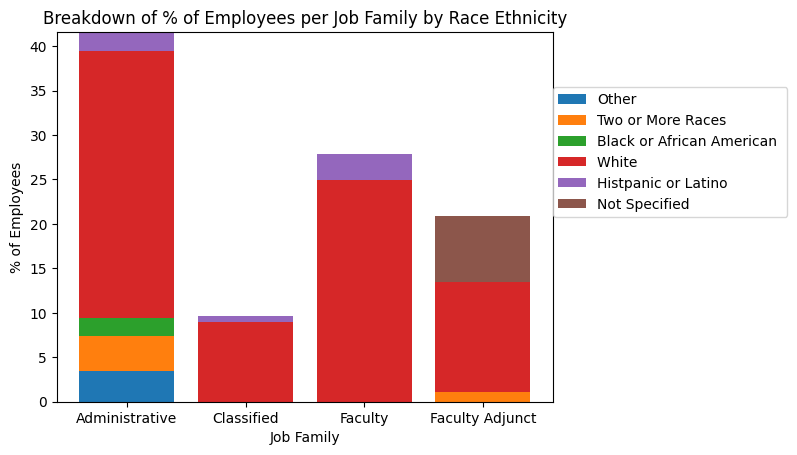
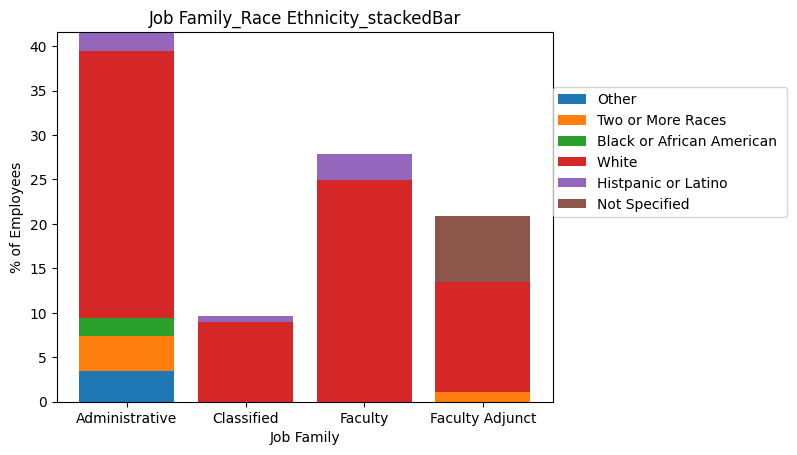
working regenerate

Changed region(s): [[0.0301, 0.0, 0.7227, 0.0615]]

diff --git a/main.py b/main.py
@@ -56,6 +56,7 @@ class Graphs(db.Model):
     title = db.Column(db.String(50), nullable=False)
     description = db.Column(db.String(250), nullable=True)
     type = db.Column(db.String(20))
+    useQuantity = db.Column(db.Boolean, default=False)
     currently_displayed = db.Column(db.Boolean, default=False, nullable=False)
     group_id = db.Column(db.Integer, db.ForeignKey('graphgroup.id'), nullable=True)
 
@@ -116,13 +117,12 @@ def makeImageName(category, type, isUnique):
     return category + "_" + type + ("_" + datetime.now().strftime("%m_%d_%Y_%H;%M;%S") + ".png" if isUnique else ".png")
 
 
-def addGraphToDb(path, title, type, description="", group_id=None):
+def addGraphToDb(path, title, type, description="", group_id=None, useQuantity=False):
     if group_id == None:
-        temp = Graphs(path=path, title=title, type=type, description=description)
+        temp = Graphs(path=path, title=title, type=type, description=description, useQuantity=useQuantity)
     else:
-        temp = Graphs(path=path, title=title, type=type, description=description, group_id=None)
+        temp = Graphs(path=path, title=title, type=type, description=description, group_id=None, useQuantity=useQuantity)
 
-    print(title + "\n")
     checker = Graphs.query.filter_by(path=path).first()
     if checker != None:
         db.session.delete(checker)
@@ -142,24 +142,25 @@ def getGraphsFromDb(listOfGraphs):
 
 def regenerateGraphs():
     dataset_path = './static/datasets/current.csv'
-    images = getImgs()
-    split_images = [item[:-4].split('_') for item in images]
-    for img in split_images:
+    graphs = Graphs.query.all()
+    for graph in graphs:
+        img = graph.path.replace('./static/graphs/', '')[:-4].split('_')
         type= img[-1]
-        print({'IMG: ' : img, 'TYPE: ' : img[-1]})
+        title = graph.title
+        useQuantity = graph.useQuantity
         if type == 'stackedBar':
             columnName1 = img[0]
             columnName2 = img[1]
             imageName = makeImageName(columnName1 + "_" + columnName2, type, False)
-            stackedBarChart(columnName1, columnName2, imageName)
+            stackedBarChart(columnName1, columnName2, imageName, title, useQuantity)
         else:
             columnName1 = img[0]
             if type == 'pie' or type == 'treemap' or type == 'bar':
                 imageName = makeImageName(columnName1, type, False)
-                singleCategoryGraph(type, columnName1, imageName)
+                singleCategoryGraph(type, columnName1, imageName, title, useQuantity)
             if type == 'histogram':
                 imageName = makeImageName(columnName1, type, False)
-                histogram(columnName1, imageName)
+                histogram(columnName1, imageName, title)
 
 # ____HELPER_FUNCTIONS_END____
 
@@ -381,7 +382,7 @@ def createGraph():
                 imageName = makeImageName(primaryCategory+"_"+secondaryCategory, chartType, ("overwrite" not in request.form))
                 dbDescription = stackedBarChart(primaryCategory, secondaryCategory, imageName, dbTitle, useQuantity)
             dbTitle = dbTitle if not dbTitle == "" else imageName.replace('.png', '')
-            addGraphToDb(path="./static/graphs/"+imageName, title=dbTitle, description=dbDescription, type=chartType)
+            addGraphToDb(path="./static/graphs/"+imageName, title=dbTitle, description=dbDescription, type=chartType, useQuantity=useQuantity)
             return redirect("/uploadGraphs")
         except Exception as e:
             print(traceback.format_exc())

diff --git a/createGraphs.py b/createGraphs.py
@@ -5,6 +5,10 @@ path = os.path.join(dir,'static', 'datasets', 'current.csv')
 displayedDirPath = os.path.join(dir,'static', 'currentlyDisplayed')
 dfMain = pd.read_csv(path)
 
+def updateDB():
+    return pd.read_csv(path)
+
+
 def saveImage(fileName, fig, genericTitle, customTitle):
     finalTitle = genericTitle if customTitle == "" or customTitle == None else customTitle
     plt.title(finalTitle)
@@ -43,7 +47,7 @@ def createOther(df, columnName, description = ""):
     
     
 def singleCategoryGraph(type, columnName, fileName, customTitle, useQuantity):
-    df, description = createOther(dfMain.copy(),columnName)
+    df, description = createOther(updateDB(),columnName)
     dict = df[columnName].value_counts().to_dict()
     keys = list(dict.keys())
     vals = list(dict.values())
@@ -82,7 +86,7 @@ def singleCategoryGraph(type, columnName, fileName, customTitle, useQuantity):
 
 
 def histogram(columnName, fileName, customTitle):
-    df = dfMain.copy()
+    df = updateDB()
     unsortedDict = df[columnName].value_counts().to_dict()
     keysMax = max(list(unsortedDict.keys()))
     keysMin = min(list(unsortedDict.keys()))
@@ -102,7 +106,7 @@ def histogram(columnName, fileName, customTitle):
 
 
 def stackedBarChart(mainColumnName, secondaryColumnName, fileName, customTitle, useQuantity):
-    df, description = createOther(dfMain.copy(),mainColumnName)
+    df, description = createOther(updateDB(),mainColumnName)
     df, description = createOther(df,secondaryColumnName, description)
     dict = {}
     subDict = {}
